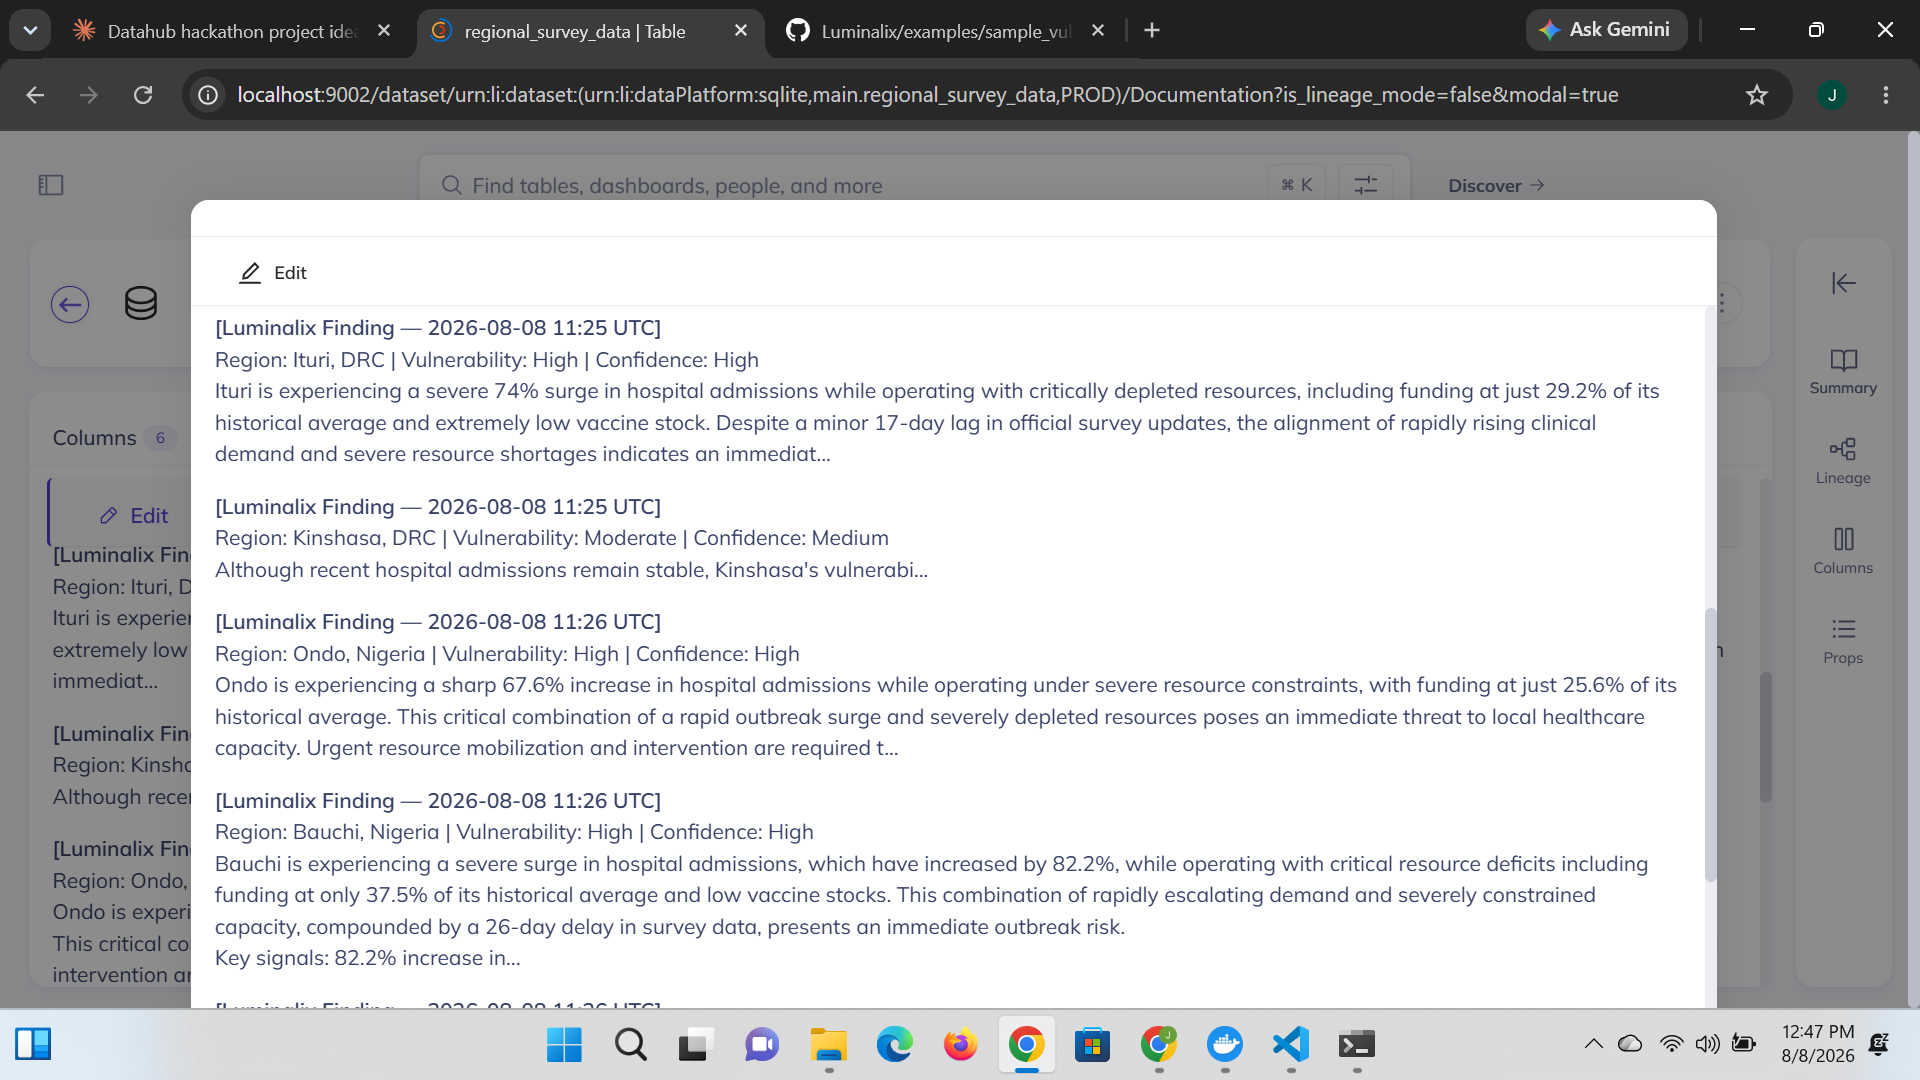
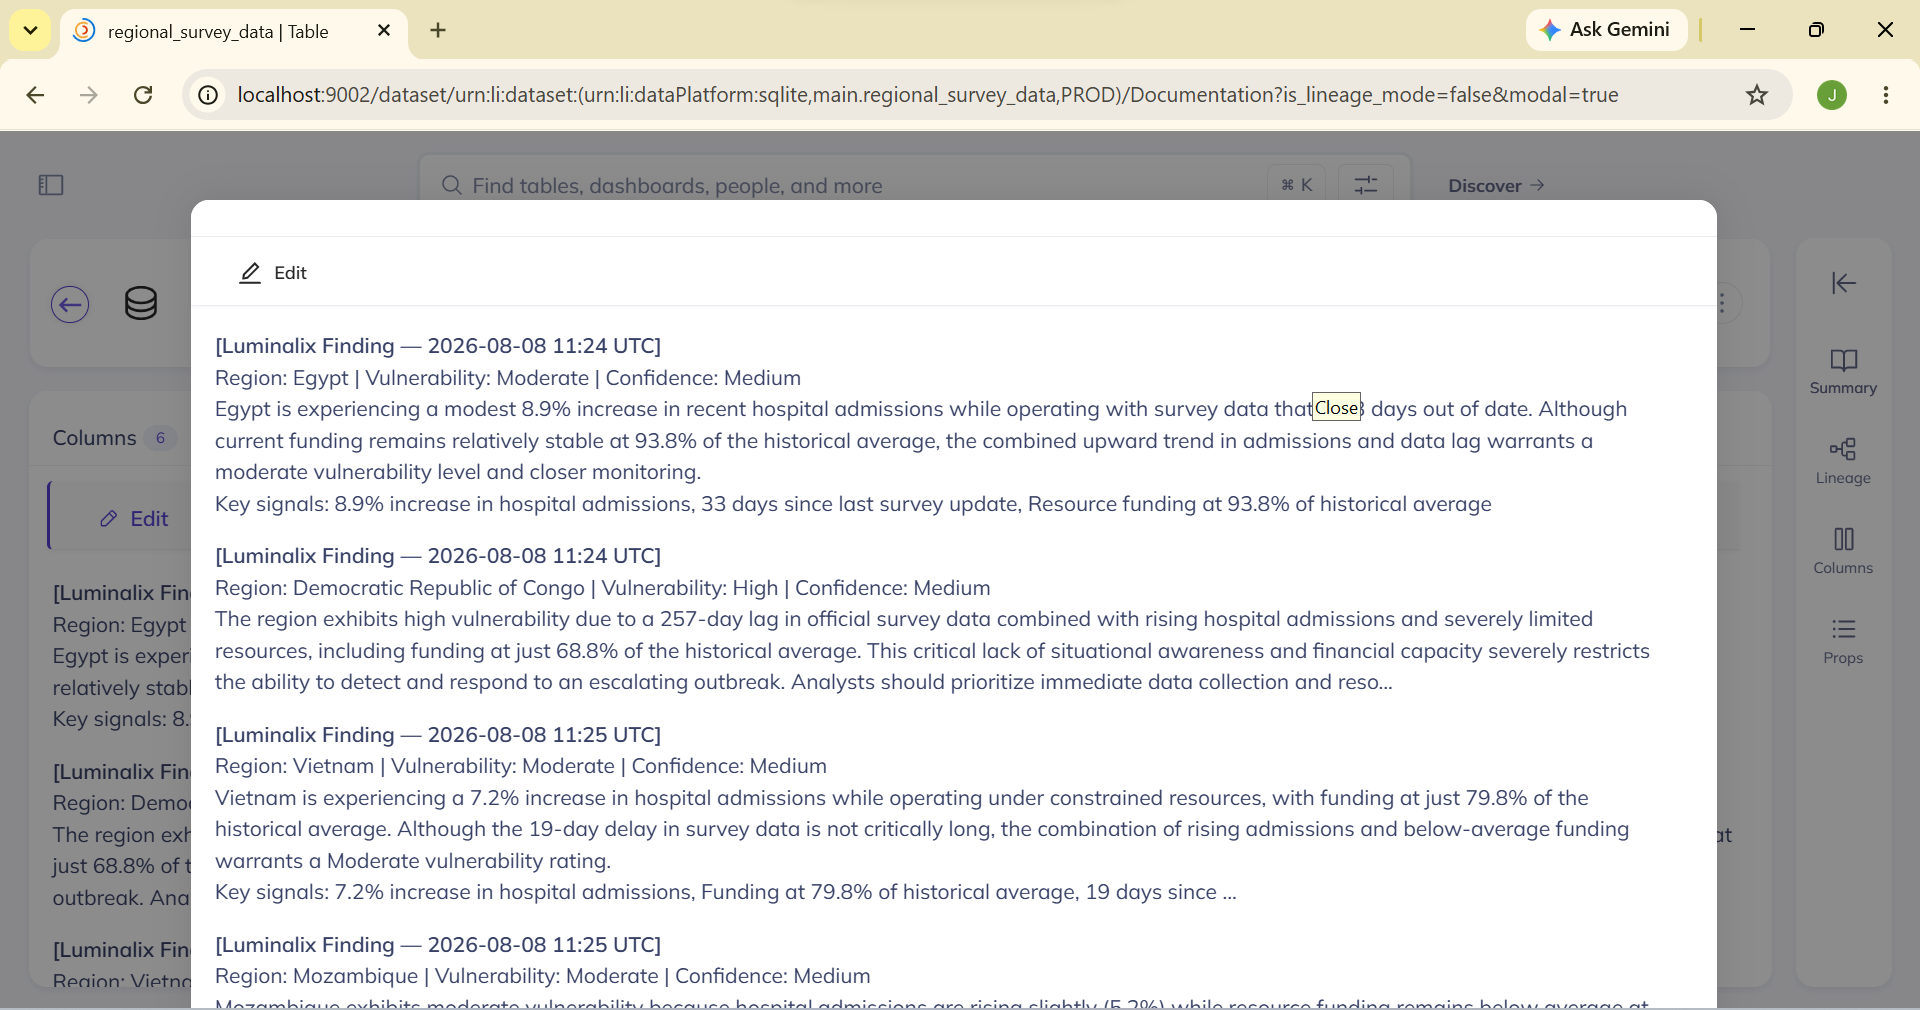
Add DataHub write-back screenshot and updated readme

diff --git a/README.md b/README.md
@@ -24,10 +24,10 @@ No GCP project or DataHub instance needed to see the system in action:
 - **Sample outputs in `examples/`**:
   - `examples/vulnerable_regions_report.json` — the real output of a full
     30-region agent run (30 evaluated, 18 flagged)
-  - `examples/sample_vulnerable_regions_report.json` — hand-curated sample
   - `data/latest_report.json` — most recent live run of the pipeline
-- **DataHub UI screenshot**: *(placeholder — add a screenshot of a Luminalix
-  finding annotation on the `regional_survey_data` dataset here)*
+- **DataHub UI screenshot**: `examples/datahub_writeback_findings.png_1` and `examples/datahub_writeback_findings.png_2` — show
+  real Luminalix findings (including High-vulnerability Bauchi, Ondo, and
+  Ituri) written to the `regional_survey_data` dataset's Documentation tab
 
 To run it yourself, follow the setup steps below — you will need a Google Cloud
 project with the Vertex AI API enabled.
